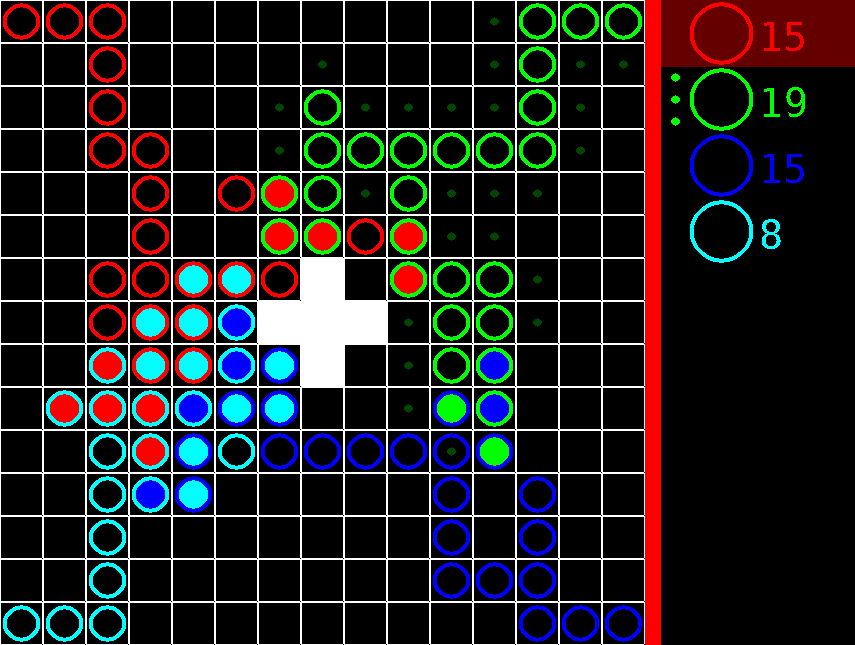
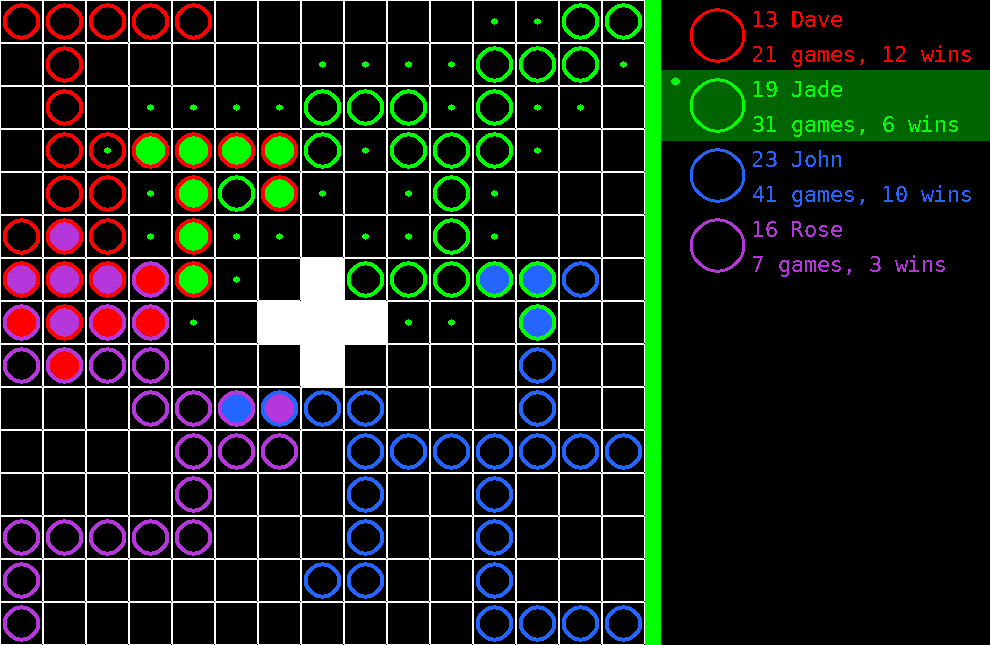
Server with database

diff --git a/README.md b/README.md
@@ -7,8 +7,8 @@ Ubuntu:
 `sudo apt install libsdl2-dev libsdl2-gfx-dev libsdl2-ttf-dev`
 
 ## Usage
-* Server: `VirusWar-server-exe config.json`
-* Client: `VirusWar-client-exe host port`
+* Server: `VirusWar-server-exe config.json database.sqlite`
+* Client: `VirusWar-client-exe host port name`
 
 ## Rules
 * The field is a rectangular grid. Two cells are neighbours if they share a side.
